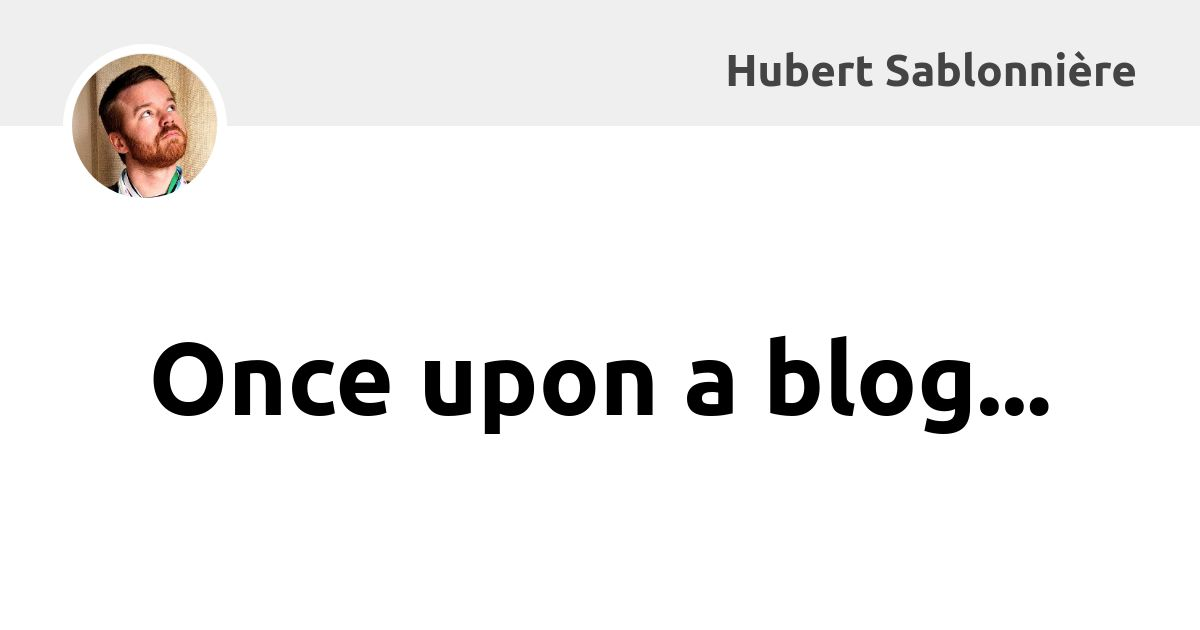
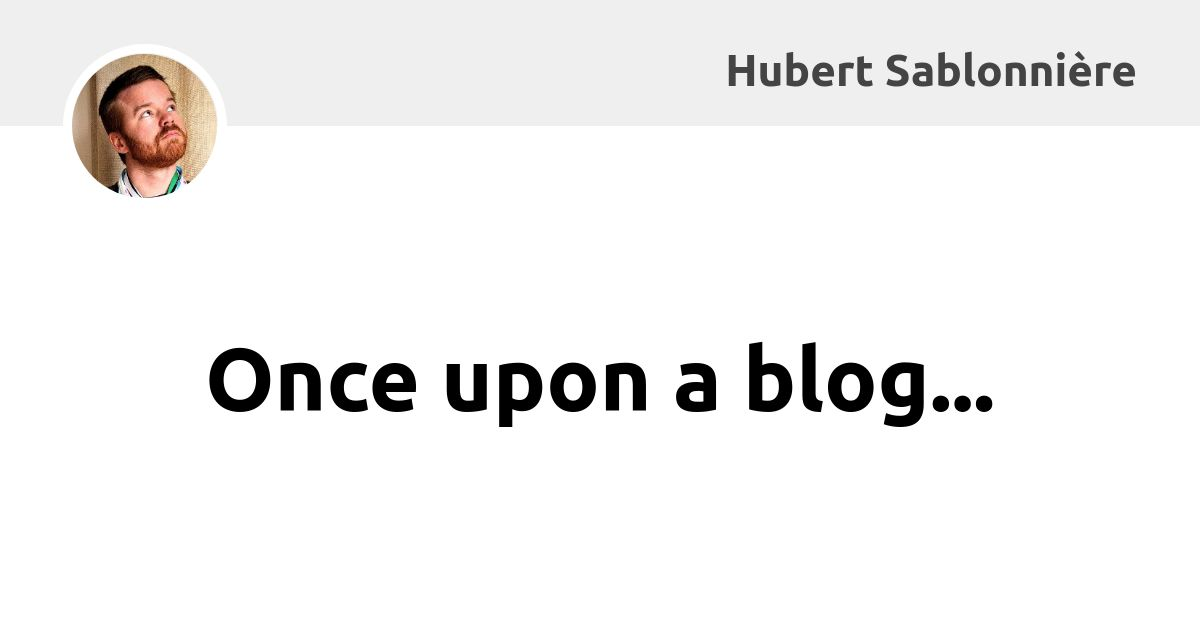
site: reduce font size on og-image CSS

Changed region(s): [[0.1233, 0.5127, 0.8942, 0.6937]]

diff --git a/pages/assets/css/article-og-image.css b/pages/assets/css/article-og-image.css
@@ -48,7 +48,7 @@ body {
 
 .main {
   align-self: center;
-  font-size: 8vh;
+  font-size: 7vh;
   grid-area: 2 / 1 / -1 / -1;
   justify-self: center;
   margin: 0 15vh;
